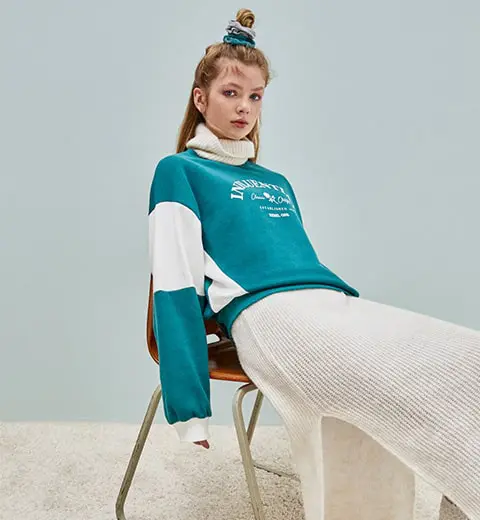
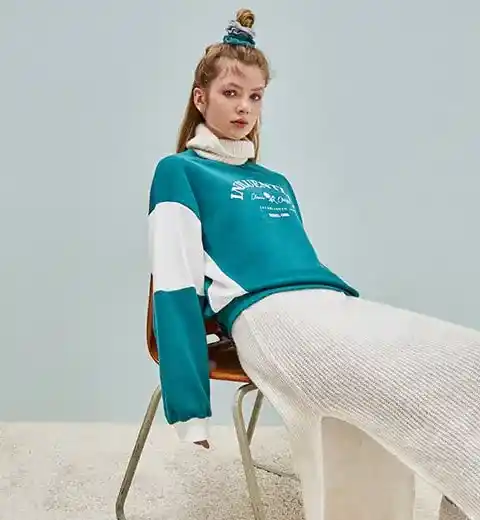
Compress and optimize images

diff --git a/src/pages/HomePage.tsx b/src/pages/HomePage.tsx
@@ -1,12 +1,8 @@
 import { useEffect } from "react";
-// import HomeAds from "../components/home/homeAds";
 import HomeDeals from "../components/home/homeDeals";
-// import HomeFeatures from "../components/home/homeFeatures";
 import { useProductStore } from "../store/products";
-// import HomeShopWithCategory from "../components/home/homeShopWithCategory";
 import HomeFeaturesProducts from "../components/home/homeFeaturesProducts";
 import HomeShopNow from "../components/home/homeShopNow";
-// import HomeBannerOne from "../components/home/homeBannerOne";
 import HomeBannerTwo from "../components/home/homeBannerTwo";
 import SwiperHomeAds from "../components/swipers/swiper.homeAds";
 import HomeBannerSection from "../components/home/homeBannerSection";
@@ -34,12 +30,9 @@ export default function HomePage() {
       </Helmet>
       <SwiperHomeAds />
       <HomeBannerSection />
-      {/* <HomeFeatures /> */}
       <HomeDeals />
-      {/* <HomeShopWithCategory /> */}
       <CategoriesSection />
       <HomeFeaturesProducts />
-      {/* <HomeBannerOne /> */}
       <HomeBannerTwo />
       <HomeShopNow />
       <HomAdvantage />

diff --git a/src/components/navbar/navbarComponents/dropdownNavbar.tsx b/src/components/navbar/navbarComponents/dropdownNavbar.tsx
@@ -9,19 +9,19 @@ type Catagories = {
 };
 const catagories: Catagories[] = [
   {
-    image: "/images/navbar/electronics-page.jpg",
+    image: "/images/navbar/electronics-page.webp",
     name: "electronics",
   },
   {
-    image: "/images/navbar/jewelry.jpg",
+    image: "/images/navbar/jewelry.webp",
     name: "jewelery",
   },
   {
-    image: "/images/navbar/men's-clothings.jpg",
+    image: "/images/navbar/men's-clothings.webp",
     name: "men's clothing",
   },
   {
-    image: "/images/navbar/women's-clothings.jpg",
+    image: "/images/navbar/women's-clothings.webp",
     name: "women's clothing",
   },
 ];

diff --git a/src/components/home/homeFeaturesProducts.tsx b/src/components/home/homeFeaturesProducts.tsx
@@ -23,7 +23,7 @@ export default function HomeFeaturesProducts() {
       <div className=" flex md:justify-between justify-center max-md:flex-col items-start max-md:items-center lg:gap-16 md:gap-6 mx-auto max-md:pt-4 max-md:!hidden">
         {/* ADS */}
         <figure className="max-md:!hidden w-fit xl:min-w-[350px] min-w-[300px] !h-full justify-start flex max-md:justify-center">
-          <img className="" src="/images/home/Banner-1.jpg" loading="lazy" alt="banner" />
+          <img className="" src="/images/home/Banner-1.webp" loading="lazy" alt="banner" />
         </figure>
 
         {/* PRODUCTS */}

diff --git a/src/components/home/homeShopNow.tsx b/src/components/home/homeShopNow.tsx
@@ -50,7 +50,7 @@ export default function HomeShopNow() {
 
         {/* ADS */}
         <figure className="w-fit max-md:hidden xl:min-w-[350px] min-w-[300px] !h-full flex max-md:justify-center justify-end">
-          <img className="" src="/images/home/Banner-1.jpg" loading="lazy" alt="banner" />
+          <img className="" src="/images/home/Banner-1.webp" loading="lazy" alt="banner" />
         </figure>
       </div>
     </section>

diff --git a/src/components/navbar/navbarComponents/mainNavbar.tsx b/src/components/navbar/navbarComponents/mainNavbar.tsx
@@ -31,7 +31,7 @@ export default function MainNavbar() {
         <div className="myContainer flex justify-between items-center relative">
           <Link to={"/"}>
             <img
-              src="/images/logo.png"
+              src="/images/logo.webp"
               className="md:w-32 w-28 lg:w-52 min-w-24 md:h-auto"
               alt="logo image"
               loading="lazy"

diff --git a/src/components/data/swiper.home.ads.data.ts b/src/components/data/swiper.home.ads.data.ts
@@ -1,6 +1,6 @@
-import FirstImg from "/images/home/swiper-1.jpg";
-import SecondImg from "/images/home/swiper-2.jpg";
-import ThirdImg from "/images/home/swiper-3.jpg";
+import FirstImg from "/images/home/swiper-1.webp";
+import SecondImg from "/images/home/swiper-2.webp";
+import ThirdImg from "/images/home/swiper-3.webp";
 
 interface HomeProps {
     id: number;

diff --git a/src/components/home/homeBannerTwo.tsx b/src/components/home/homeBannerTwo.tsx
@@ -7,7 +7,7 @@ export default function HomeBannerTwo() {
       <figure>
         <img
           //   className=""
-          src="/images/home/banner-e-commerce1 2.png"
+          src="/images/home/banner-e-commerce1 2.webp"
           alt="banner-e-commerce1"
           loading="lazy"
         />
